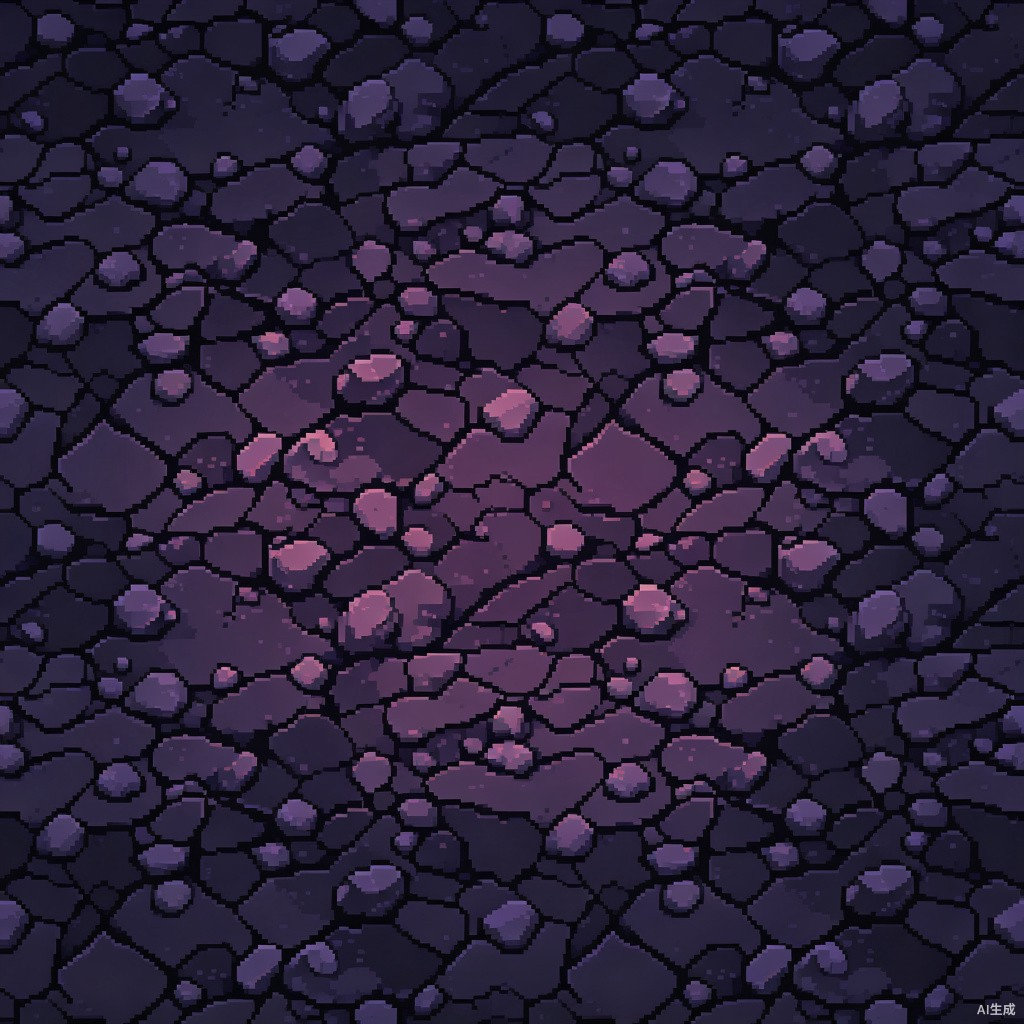
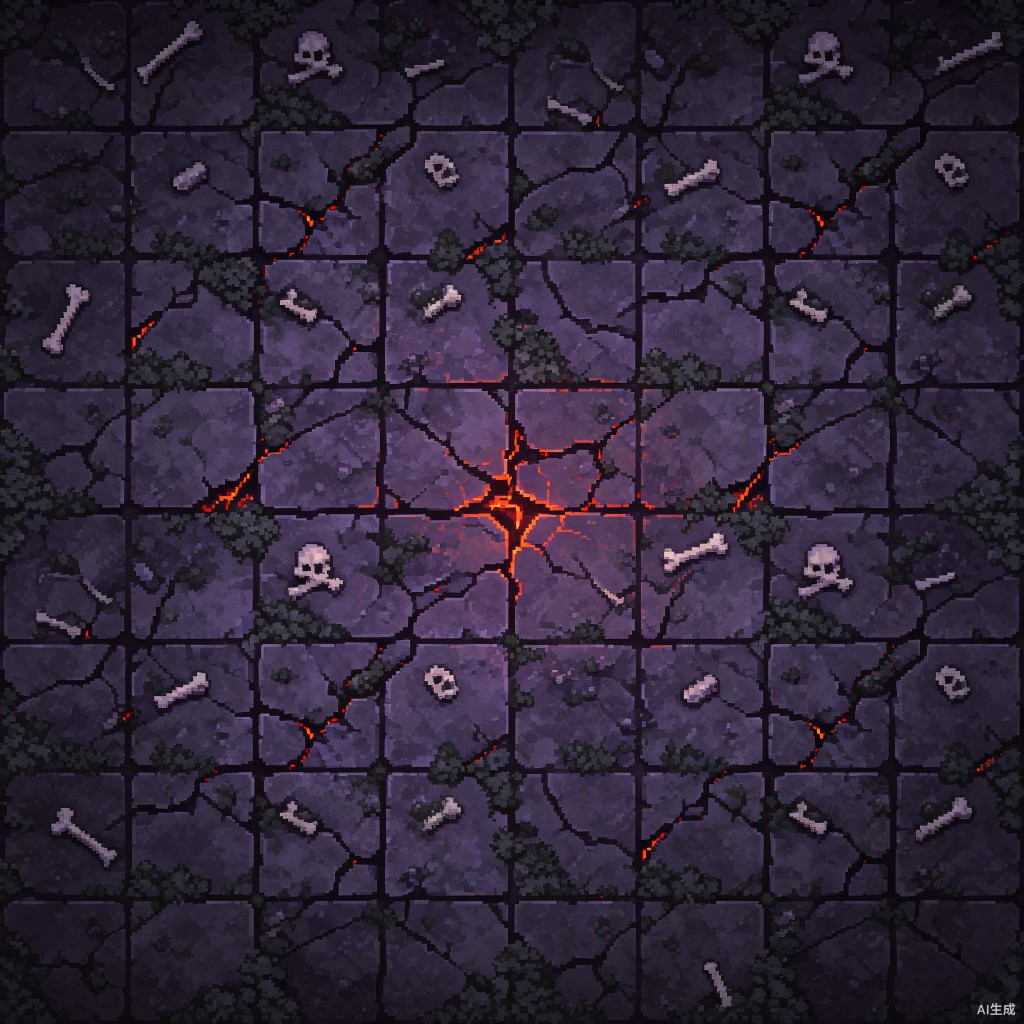
v3.1: 修复卡死+动画方向+变形+全新AI素材
性能修复:
- 所有数组添加上限(敌人200/粒子300/掉落物120/投射物300)
- 敌人生成速率受上限保护，不会无限增长
- 道具栏改为脏标记更新，避免每帧重建DOM
- 新增轻量updateItemBarCooldowns()仅更新冷却文字

动画修复:
- 玩家旋转方向修正: facingDir-PI/2 支持上下左右全方向
- 敌人面朝玩家移动方向
- 精灵图保持宽高比不变形

新AI素材:
- 全新无缝背景(暗黑石砖+熔岩裂痕+散落骸骨)
- 全新英雄主角精灵图(4帧动画+绿幕背景)

diff --git a/js/game.js b/js/game.js
@@ -83,6 +83,15 @@ const IMG = {
     itemHeal: 'assets/images/ai_item_heal.jpg',
 };
 
+// ==================== 性能上限 ====================
+const LIMITS = {
+    ENEMIES: 200,
+    PARTICLES: 300,
+    PICKUPS: 120,
+    PROJECTILES: 300,
+    SKILL_EFFECTS: 10,
+};
+
 // ==================== 配置 ====================
 const CFG = {
     MAP_W: 3600, MAP_H: 3600,
@@ -359,20 +368,33 @@ class Enemy {
             }));
         }
     }
-    draw(ctx, cam) {
+    draw(ctx, cam, player) {
         const sx=this.x-cam.x, sy=this.y-cam.y;
         const floatY=Math.sin(Date.now()/300+this.anim)*2;
         const drawSize=this.size*2.5;
         const dx=sx-drawSize/2, dy=sy-drawSize/2+floatY;
         if (this.sprite) {
+            ctx.save();
+            ctx.translate(sx, sy+floatY);
+            // 敌人面朝玩家方向
+            if (player) {
+                const enemyAngle = Math.atan2(player.y - this.y, player.x - this.x);
+                ctx.rotate(enemyAngle - Math.PI/2);
+            }
+            // 保持宽高比不变形
+            const eAspect = this.sprite.width / this.sprite.height;
+            let edw = drawSize, edh = drawSize;
+            if (eAspect > 1) edh = drawSize / eAspect;
+            else edw = drawSize * eAspect;
             // 绿幕抠图后的精灵渲染
             if (this.hitFlash>0) {
                 ctx.globalAlpha = 0.5;
-                ctx.drawImage(this.sprite, dx, dy, drawSize, drawSize);
+                ctx.drawImage(this.sprite, -edw/2, -edh/2, edw, edh);
                 ctx.globalAlpha = 1;
             } else {
-                ctx.drawImage(this.sprite, dx, dy, drawSize, drawSize);
+                ctx.drawImage(this.sprite, -edw/2, -edh/2, edw, edh);
             }
+            ctx.restore();
         } else {
             // 回退几何绘制
             const color=this.hitFlash>0?'#fff':this.color;
@@ -734,13 +756,18 @@ class Player {
         const drawSize=this.size*2.8;
         const dx=sx-drawSize/2, dy=sy-drawSize/2;
         if (this.sprite) {
-            // 绿幕抠图后的精灵动画
+            // 绿幕抠图后的精灵动画 - 保持宽高比不变形
             const frameW = this.sprite.width / 4;
             const srcX = this.animFrame * frameW;
+            const frameH = this.sprite.height;
+            const aspect = frameW / frameH;
+            let dw = drawSize, dh = drawSize;
+            if (aspect > 1) dh = drawSize / aspect;
+            else dw = drawSize * aspect;
             ctx.save();
             ctx.translate(sx, sy);
-            if (this.isMoving) ctx.rotate(this.facingDir + Math.PI/2);
-            ctx.drawImage(this.sprite, srcX, 0, frameW, this.sprite.height, -drawSize/2, -drawSize/2, drawSize, drawSize);
+            ctx.rotate(this.facingDir - Math.PI/2);
+            ctx.drawImage(this.sprite, srcX, 0, frameW, frameH, -dw/2, -dh/2, dw, dh);
             ctx.restore();
         } else {
             // 回退绘制
@@ -883,6 +910,7 @@ class Game {
         this.cam={x:CFG.MAP_W/2-this.canvas.width/2, y:CFG.MAP_H/2-this.canvas.height/2};
         this.shake=0; this.enemySpawnTimer=0; this.difficulty=1; this.bossSpawned=false;
         this.player=new Player(DB.data.permUpgrades);
+        this._itemBarDirty = true;
         this.lastTime=performance.now();
         this.updateItemBar();
         this.loop();
@@ -904,17 +932,23 @@ class Game {
         const p=this.player;
         if(!p||p.dead) return;
         p.update(dt);
+        // 技能特效
         for(let i=this.skillEffects.length-1;i>=0;i--) {
             this.skillEffects[i].update(dt,this);
             if(this.skillEffects[i].dead) this.skillEffects.splice(i,1);
         }
+        if(this.skillEffects.length>LIMITS.SKILL_EFFECTS) this.skillEffects.splice(0,this.skillEffects.length-LIMITS.SKILL_EFFECTS);
+        // 道具冷却
         for(const k in this.itemCooldowns) {
             if(this.itemCooldowns[k]>0) this.itemCooldowns[k]-=dt;
         }
+        // 敌人
         for(let i=this.enemies.length-1;i>=0;i--) {
             this.enemies[i].update(dt,p);
             if(this.enemies[i].dead) this.enemies.splice(i,1);
         }
+        if(this.enemies.length>LIMITS.ENEMIES) this.enemies.splice(0,this.enemies.length-LIMITS.ENEMIES);
+        // 投射物
         for(let i=this.projectiles.length-1;i>=0;i--) {
             this.projectiles[i].update(dt);
             const proj=this.projectiles[i];
@@ -927,14 +961,20 @@ class Game {
                 }
             }
         }
+        if(this.projectiles.length>LIMITS.PROJECTILES) this.projectiles.splice(0,this.projectiles.length-LIMITS.PROJECTILES);
+        // 粒子
         for(let i=this.particles.length-1;i>=0;i--) {
             this.particles[i].update(dt);
             if(this.particles[i].dead) this.particles.splice(i,1);
         }
+        if(this.particles.length>LIMITS.PARTICLES) this.particles.splice(0,this.particles.length-LIMITS.PARTICLES);
+        // 掉落物
         for(let i=this.pickups.length-1;i>=0;i--) {
             this.pickups[i].update(dt,p,p.getMagnetRange(),this);
             if(this.pickups[i].dead) this.pickups.splice(i,1);
         }
+        if(this.pickups.length>LIMITS.PICKUPS) this.pickups.splice(0,this.pickups.length-LIMITS.PICKUPS);
+        // 接触伤害
         if(p.contactDmgTimer<=0) {
             for(const e of this.enemies) {
                 if(dist(e,p)<(e.size+p.size)/2) {
@@ -942,14 +982,15 @@ class Game {
                 }
             }
         }
+        // 敌人生成 - 有上限保护
         this.enemySpawnTimer-=dt;
-        if(this.enemySpawnTimer<=0) {
+        if(this.enemySpawnTimer<=0&&this.enemies.length<LIMITS.ENEMIES) {
             this.spawnWave();
-            this.enemySpawnTimer=Math.max(0.5,2.5-this.time/300);
+            this.enemySpawnTimer=Math.max(0.8,3.0-this.time/300);
         }
         this.difficulty=1+this.time/60;
         const mins=Math.floor(this.time/60);
-        if(mins>0&&mins%3===0&&!this.bossSpawned) {
+        if(mins>0&&mins%3===0&&!this.bossSpawned&&this.enemies.length<LIMITS.ENEMIES-5) {
             this.bossSpawned=true; this.spawnEnemy('boss',3);
         }
         if(mins%3!==0) this.bossSpawned=false;
@@ -961,10 +1002,12 @@ class Game {
             this.cam.y+=Math.cos(this.shake*50)*5*this.shake;
         }
         if(p.dead) this.gameOver();
+        // 优化：HUD信息每帧更新（轻量），道具栏仅在变化时重建
         this.updateHUD();
     }
     spawnWave() {
-        const count=Math.floor(2+this.time/25);
+        const remaining=Math.max(0,LIMITS.ENEMIES-this.enemies.length);
+        const count=Math.min(remaining, Math.floor(2+this.time/25));
         for(let i=0;i<count;i++) {
             const types=['wraith','skeleton','zombie','demon'];
             const weights=this.time<30?[50,30,20,0]:this.time<120?[30,30,25,15]:[20,25,30,25];
@@ -1000,6 +1043,7 @@ class Game {
     collectItem(type) {
         if(this.items.length>=this.maxItems) return;
         this.items.push(type);
+        this._itemBarDirty = true;
         this.updateItemBar();
     }
     useItem(index) {
@@ -1034,9 +1078,11 @@ class Game {
                 }
                 break;
         }
+        this._itemBarDirty = true;
         this.updateItemBar();
     }
     updateItemBar() {
+        this._itemBarDirty = false;
         const container=document.getElementById('itemSlots');
         if(!container) return;
         container.innerHTML='';
@@ -1083,6 +1129,33 @@ class Game {
             container.appendChild(slot);
         }
     }
+    // 轻量更新：仅更新冷却文字，不重建DOM
+    updateItemBarCooldowns() {
+        const container=document.getElementById('itemSlots');
+        if(!container) return;
+        for(let i=0;i<this.maxItems;i++) {
+            const slot=container.children[i];
+            if(!slot) continue;
+            const oldCd=slot.querySelector('.item-cd');
+            if(i<this.items.length) {
+                const type=this.items[i];
+                const onCd=this.itemCooldowns[type]>0;
+                if(onCd) {
+                    if(oldCd) oldCd.textContent=this.itemCooldowns[type].toFixed(1)+'s';
+                    else {
+                        const cd=document.createElement('span');
+                        cd.className='item-cd';
+                        cd.textContent=this.itemCooldowns[type].toFixed(1)+'s';
+                        slot.appendChild(cd);
+                    }
+                    slot.classList.add('item-cooldown');
+                } else {
+                    if(oldCd) oldCd.remove();
+                    slot.classList.remove('item-cooldown');
+                }
+            }
+        }
+    }
     render() {
         const ctx=this.ctx;
         ctx.clearRect(0,0,this.canvas.width,this.canvas.height);
@@ -1092,7 +1165,7 @@ class Game {
             ctx.fillStyle='#0d1117'; ctx.fillRect(0,0,this.canvas.width,this.canvas.height);
         }
         for(const pk of this.pickups) pk.draw(ctx,this.cam);
-        for(const e of this.enemies) e.draw(ctx,this.cam);
+        for(const e of this.enemies) e.draw(ctx,this.cam,this.player);
         if(this.player) this.player.draw(ctx,this.cam);
         for(const proj of this.projectiles) proj.draw(ctx,this.cam);
         for(const pt of this.particles) pt.draw(ctx,this.cam);
@@ -1118,7 +1191,12 @@ class Game {
         const tEl=document.getElementById('hudTime'); if(tEl) tEl.textContent=m+':'+String(s).padStart(2,'0');
         const kEl=document.getElementById('hudKills'); if(kEl) kEl.textContent=this.kills;
         const sEl=document.getElementById('hudScore'); if(sEl) sEl.textContent=Math.floor(this.score);
-        this.updateItemBar();
+        // 优化：道具栏仅在变化时重建，其他时候只更新冷却文字
+        if (this._itemBarDirty) {
+            this.updateItemBar();
+        } else {
+            this.updateItemBarCooldowns();
+        }
     }
     showLevelUp() {
         this.paused=true;